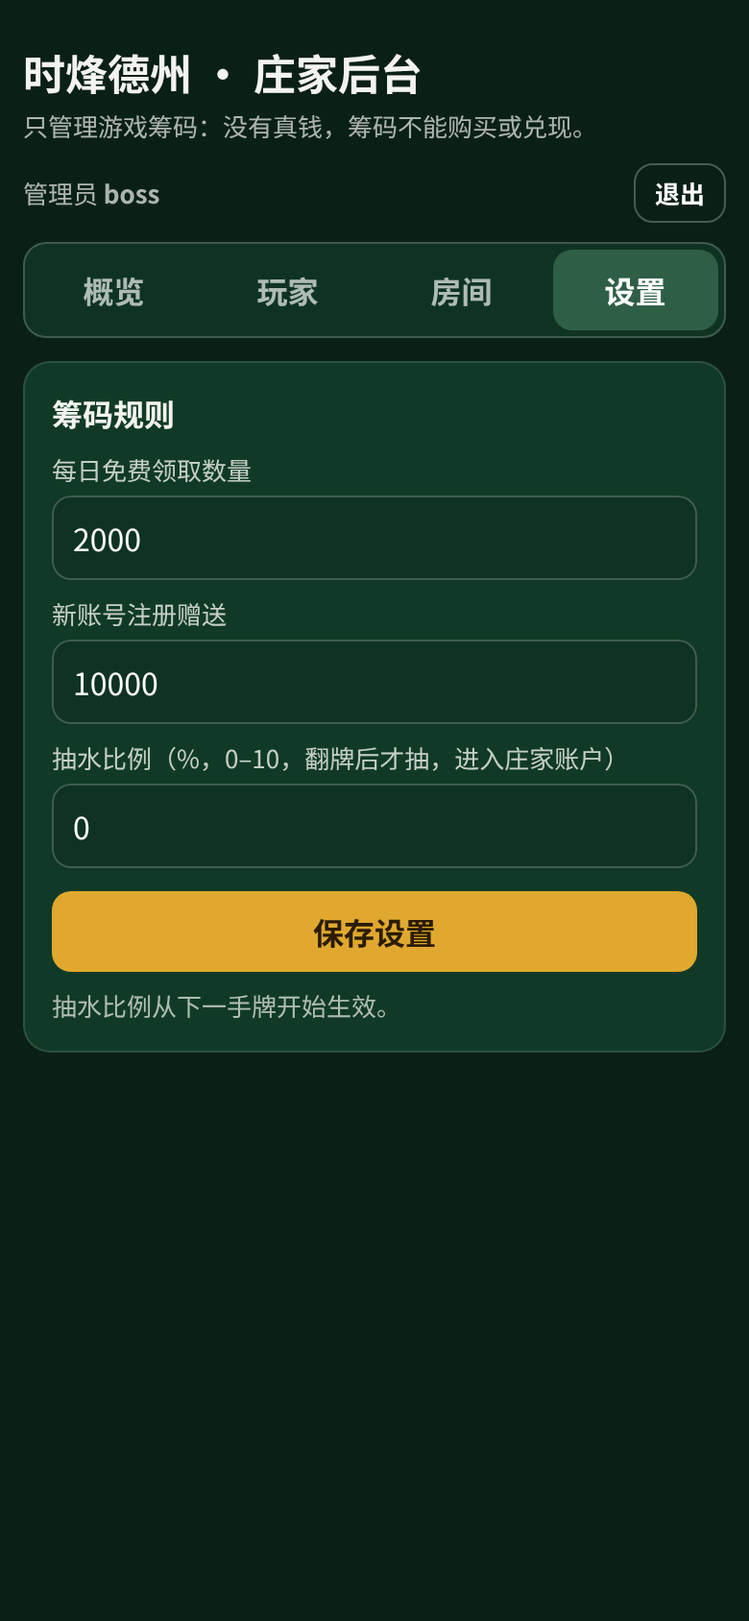
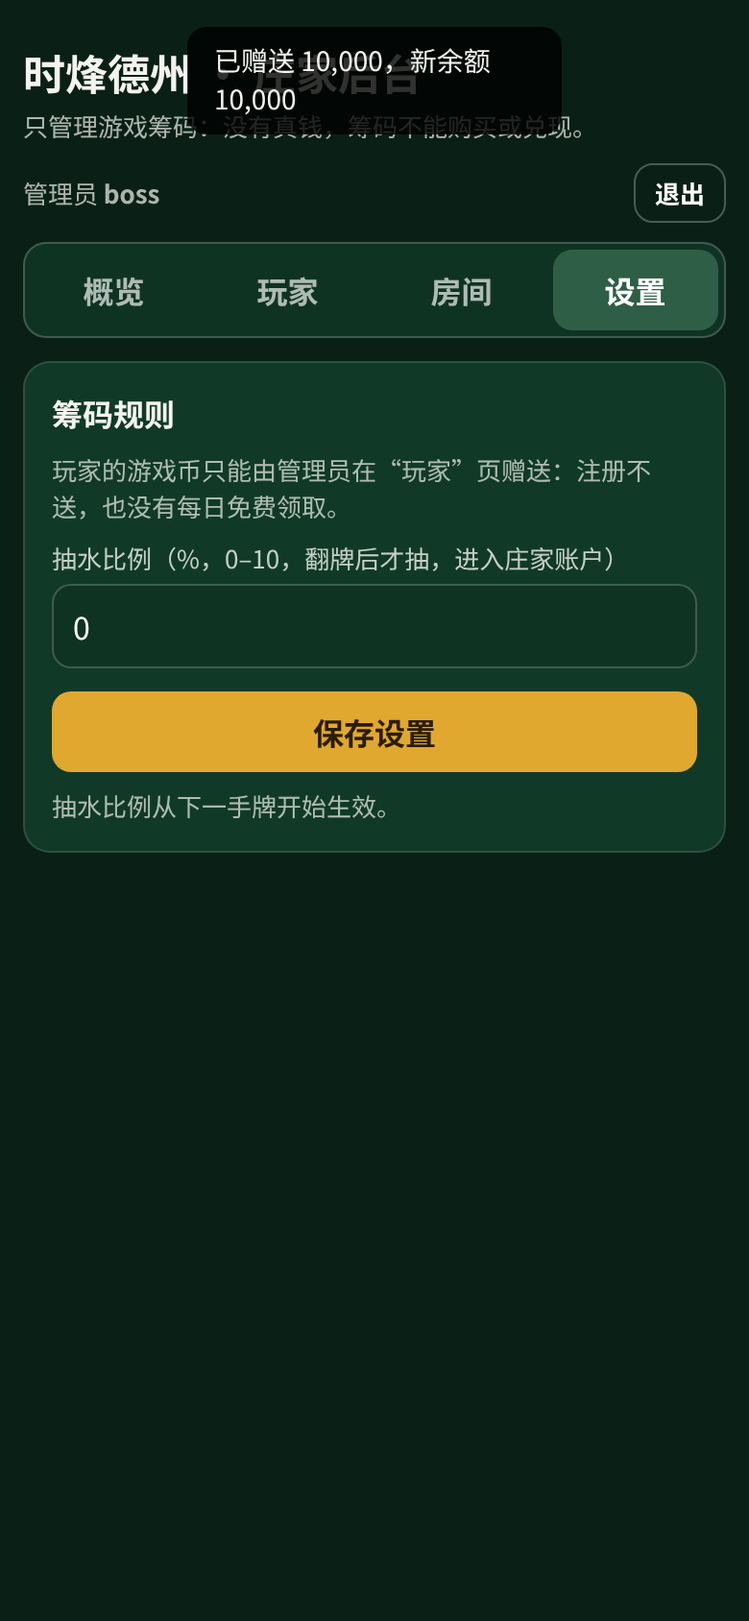
筹码只能由管理员赠送：注册 0 筹码、移除每日领取、余额不足提示联系客服、后台快捷赠送

diff --git a/server.js b/server.js
@@ -14,7 +14,10 @@ const __dirname = path.dirname(fileURLToPath(import.meta.url));
 const MAX_SEATS = 9;
 const HOUSE = "__house__";
 const BOT_NAMES = ["电脑·阿杰", "电脑·小美", "电脑·老王", "电脑·Lisa", "电脑·大卫", "电脑·阿芳", "电脑·Tom", "电脑·小林", "电脑·阿强"];
-const DEFAULT_SETTINGS = { dailyFree: 2000, rakePercent: 0, signupBonus: 10000 };
+// 玩家的筹码只能由庄家（管理员）在后台赠送：注册不送、没有每日免费领取
+const DEFAULT_SETTINGS = { rakePercent: 0 };
+const SIGNUP_BONUS = 0;
+const NO_CHIPS_MSG = "余额不足，请联系客服获取游戏币";
 const SESSION_DAYS = 30;
 
 export async function createApp(opts = {}) {
@@ -25,10 +28,13 @@ export async function createApp(opts = {}) {
   const autoActDelay = opts.autoActDelay ?? 1500;
   const bcryptRounds = opts.bcryptRounds ?? 10;
   const turnMs = (room) => opts.turnMs ?? room.cfg.timer * 1000;
-  const claimTz = opts.claimTz ?? process.env.CLAIM_TZ ?? "Asia/Shanghai";
+  const supportUrl = opts.supportUrl ?? process.env.SUPPORT_URL ?? ""; // 客服链接（以后填 Telegram），空则只显示文字
 
   const store = opts.store ?? await openStore({ databaseUrl: opts.databaseUrl, dataFile: opts.dataFile, memory: opts.memory, schema: opts.schema });
-  let settings = { ...DEFAULT_SETTINGS, ...(await store.getSettings()) };
+  // 启动时清理旧版本留下的“注册赠送 / 每日领取”设置，确保它们不再生效
+  const stored = await store.getSettings();
+  for (const k of ["signupBonus", "dailyFree"]) if (k in stored && stored[k] !== 0) await store.setSetting(k, 0);
+  let settings = { ...DEFAULT_SETTINGS, rakePercent: Number(stored.rakePercent) || 0 };
   let house = await store.getUserByName(HOUSE);
   if (!house) house = await store.createUser(HOUSE, "!", 0, { isHouse: true });
   const houseId = house.id;
@@ -57,13 +63,12 @@ export async function createApp(opts = {}) {
   const clampInt = (v, lo, hi, d) => { const n = Math.floor(Number(v)); return Number.isFinite(n) ? Math.min(hi, Math.max(lo, n)) : d; };
   const activeMembers = (room) => room.members.filter((m) => !m.left);
   const betting = (g) => g && ["preflop", "flop", "turn", "river"].includes(g.stage);
-  const today = () => new Intl.DateTimeFormat("en-CA", { timeZone: claimTz, year: "numeric", month: "2-digit", day: "2-digit" }).format(new Date());
   const newCode = () => {
     const A = "ABCDEFGHJKLMNPQRSTUVWXYZ23456789";
     let c; do { c = Array.from({ length: 5 }, () => A[Math.floor(Math.random() * A.length)]).join(""); } while (rooms.has(c));
     return c;
   };
-  const publicUser = (u) => ({ id: u.id, username: u.username, balance: u.balance, isAdmin: u.isAdmin, canClaim: u.lastClaim !== today(), dailyFree: settings.dailyFree });
+  const publicUser = (u) => ({ id: u.id, username: u.username, balance: u.balance, isAdmin: u.isAdmin, supportUrl });
 
   // ---------- 账号 ----------
   async function userFromToken(token) {
@@ -91,7 +96,7 @@ export async function createApp(opts = {}) {
       if (!NAME_RE.test(username) || username.startsWith("__")) return res.status(400).json({ error: "用户名需 2–16 位，只能用中文、字母、数字或下划线" });
       if (password.length < 6 || password.length > 72) return res.status(400).json({ error: "密码至少 6 位" });
       let u;
-      try { u = await store.createUser(username, await bcrypt.hash(password, bcryptRounds), settings.signupBonus); }
+      try { u = await store.createUser(username, await bcrypt.hash(password, bcryptRounds), SIGNUP_BONUS); }
       catch (e) { if (e.message === "EXISTS") return res.status(409).json({ error: "这个用户名已被注册" }); throw e; }
       res.json({ token: await newSession(u), user: publicUser(u) });
     } catch (e) { next(e); }
@@ -115,14 +120,6 @@ export async function createApp(opts = {}) {
 
   app.post("/api/logout", async (req, res, next) => { try { const t = bearer(req); if (t) await store.deleteSession(t); res.json({ ok: true }); } catch (e) { next(e); } });
   app.get("/api/me", auth, (req, res) => res.json(publicUser(req.user)));
-  app.post("/api/claim", auth, async (req, res, next) => {
-    try {
-      const bal = await store.claimDaily(req.user.id, today(), settings.dailyFree);
-      if (bal == null) return res.status(409).json({ error: "今天已经领过了，明天再来" });
-      pushMe(req.user.id);
-      res.json({ ok: true, amount: settings.dailyFree, balance: bal });
-    } catch (e) { next(e); }
-  });
   app.get("/api/me/ledger", auth, async (req, res, next) => { try { res.json(await store.ledger(req.user.id, 30)); } catch (e) { next(e); } });
   app.get("/health", (_req, res) => res.json({ ok: true, rooms: rooms.size, storage: store.kind }));
   app.get("/api/rooms", (_req, res) => res.json(listRooms()));
@@ -356,9 +353,9 @@ export async function createApp(opts = {}) {
       try {
         const u = await fresh(); if (!u) return ack({ ok: false, error: "账号不可用" });
         const cfg = parseCfg(data.cfg);
-        if (u.balance < cfg.start) return ack({ ok: false, error: `余额不足：带入需要 ${cfg.start}，你有 ${u.balance}` });
+        if (u.balance < cfg.start) return ack({ ok: false, error: `${NO_CHIPS_MSG}（带入需要 ${cfg.start}，你有 ${u.balance}）`, noChips: true });
         const code = newCode();
-        try { await store.adjust(uid, -cfg.start, `带入 房间${code}`); } catch { return ack({ ok: false, error: "余额不足" }); }
+        try { await store.adjust(uid, -cfg.start, `带入 房间${code}`); } catch { return ack({ ok: false, error: NO_CHIPS_MSG, noChips: true }); }
         pushMe(uid);
         const room = { code, cfg, members: [], g: null, hostToken: null, lastActive: Date.now(), created: Date.now(), emptySince: null };
         rooms.set(code, room);
@@ -382,8 +379,8 @@ export async function createApp(opts = {}) {
         if (activeMembers(room).length >= MAX_SEATS) return ack({ ok: false, error: "房间已满（最多 9 人）" });
         if (room.g && room.g.players.length >= MAX_SEATS && betting(room.g)) return ack({ ok: false, error: "暂时没有空位，请等这手牌结束再试" });
         const u = await fresh(); if (!u) return ack({ ok: false, error: "账号不可用" });
-        if (u.balance < room.cfg.start) return ack({ ok: false, error: `余额不足：带入需要 ${room.cfg.start}，你有 ${u.balance}` });
-        try { await store.adjust(uid, -room.cfg.start, `带入 房间${code}`); } catch { return ack({ ok: false, error: "余额不足" }); }
+        if (u.balance < room.cfg.start) return ack({ ok: false, error: `${NO_CHIPS_MSG}（带入需要 ${room.cfg.start}，你有 ${u.balance}）`, noChips: true });
+        try { await store.adjust(uid, -room.cfg.start, `带入 房间${code}`); } catch { return ack({ ok: false, error: NO_CHIPS_MSG, noChips: true }); }
         pushMe(uid);
         room = rooms.get(code);
         const refund = (msg) => { track(store.adjust(uid, room ? room.cfg.start : 0, `带入失败退回 房间${code}`).then(() => pushMe(uid))); ack({ ok: false, error: msg }); };
@@ -446,7 +443,7 @@ export async function createApp(opts = {}) {
       if (p.chips > 0 || (betting(room.g) && !p.out) || m.cashedOut || m.pendingCashout) return ack({ ok: false, error: "现在不能补充筹码" });
       if (m.rebuying) return ack({ ok: false }); m.rebuying = true;
       try { await store.adjust(uid, -room.cfg.start, `补充带入 房间${room.code}`); }
-      catch { m.rebuying = false; return ack({ ok: false, error: "余额不足" }); }
+      catch { m.rebuying = false; return ack({ ok: false, error: NO_CHIPS_MSG, noChips: true }); }
       m.rebuying = false;
       if (!rooms.has(room.code) || m.left) { credit(m, room.cfg.start, `补充失败退回 房间${room.code}`); return ack({ ok: false }); }
       p.chips += room.cfg.start; pushMe(uid);
@@ -496,11 +493,11 @@ export async function createApp(opts = {}) {
   });
   aget("/users/:id/ledger", async (req, res) => res.json(await store.ledger(Number(req.params.id), 100)));
   apost("/users/:id/adjust", async (req, res) => {
-    const id = Number(req.params.id); const delta = Math.trunc(Number(req.body?.delta)); const reason = String(req.body?.reason || "").trim().slice(0, 100);
+    const id = Number(req.params.id); const delta = Math.trunc(Number(req.body?.delta));
     if (!delta || Math.abs(delta) > 1e9) return res.status(400).json({ error: "请输入有效的数量" });
-    if (!reason) return res.status(400).json({ error: "请填写原因" });
+    const reason = String(req.body?.reason || "").trim().slice(0, 100) || (delta > 0 ? "管理员赠送" : "管理员扣除");
     const u = await store.getUser(id); if (!u || u.isHouse) return res.status(404).json({ error: "找不到玩家" });
-    try { const bal = await store.adjust(id, delta, `后台${delta > 0 ? "增加" : "扣除"}：${reason}`, req.user.username); pushMe(id); res.json({ ok: true, balance: bal }); }
+    try { const bal = await store.adjust(id, delta, reason, req.user.username); pushMe(id); res.json({ ok: true, balance: bal }); }
     catch (e) { if (e.message === "INSUFFICIENT") return res.status(400).json({ error: "余额不够扣" }); throw e; }
   });
   apost("/users/:id/ban", async (req, res) => {
@@ -532,10 +529,8 @@ export async function createApp(opts = {}) {
   });
   apost("/settings", async (req, res) => {
     const b = req.body || {};
-    if (b.dailyFree !== undefined) settings.dailyFree = clampInt(b.dailyFree, 0, 1e9, settings.dailyFree);
-    if (b.signupBonus !== undefined) settings.signupBonus = clampInt(b.signupBonus, 0, 1e9, settings.signupBonus);
     if (b.rakePercent !== undefined) { const v = Number(b.rakePercent); if (!(v >= 0 && v <= 10)) return res.status(400).json({ error: "抽水比例需在 0–10% 之间" }); settings.rakePercent = Math.round(v * 10) / 10; }
-    for (const k of ["dailyFree", "signupBonus", "rakePercent"]) await store.setSetting(k, settings[k]);
+    await store.setSetting("rakePercent", settings.rakePercent);
     res.json({ ok: true, settings });
   });
   app.use("/api/admin", A);

diff --git a/public/admin.html b/public/admin.html
@@ -39,6 +39,7 @@ h1{font-size:22px;margin:10px 0 2px}h2{font-size:16px;margin:0 0 8px}
 .ledger{font-size:12px;line-height:1.6;background:#0d2a1c;border-radius:8px;padding:8px;margin-top:8px;max-height:220px;overflow:auto}
 .warn{background:#5a3c0b;border-radius:10px;padding:8px 10px;font-size:13px;margin-top:8px}
 #toast{position:fixed;left:50%;top:14px;transform:translateX(-50%);background:#000c;padding:8px 14px;border-radius:10px;z-index:99;font-size:14px}
+.presets button{flex:1 1 auto}
 .mem{display:flex;justify-content:space-between;align-items:center;font-size:13px;padding:4px 0}
 </style>
 </head>
@@ -77,8 +78,7 @@ h1{font-size:22px;margin:10px 0 2px}h2{font-size:16px;margin:0 0 8px}
     <div id="t-set" class="hidden">
       <div class="box">
         <h2>筹码规则</h2>
-        <label>每日免费领取数量</label><input id="sDaily" type="number" inputmode="numeric">
-        <label>新账号注册赠送</label><input id="sSignup" type="number" inputmode="numeric">
+        <div class="muted">玩家的游戏币只能由管理员在“玩家”页赠送：注册不送，也没有每日免费领取。</div>
         <label>抽水比例（%，0–10，翻牌后才抽，进入庄家账户）</label><input id="sRake" type="number" inputmode="decimal" step="0.5">
         <button class="pri" id="btnSave" style="width:100%;margin-top:12px">保存设置</button>
         <div class="muted" style="margin-top:8px">抽水比例从下一手牌开始生效。</div>
@@ -131,7 +131,7 @@ async function loadStats() {
   $("stats").innerHTML = items.map(([l, v]) => `<div class="stat"><div class="v">${v}</div><div class="l">${l}</div></div>`).join("");
   const houseNote = `<div class="muted" style="margin-top:8px">庄家余额 = 抽水收入 − 电脑玩家带入的筹码（电脑玩家离桌时返还），为负数是正常的。</div>`;
   $("storeWarn").innerHTML = houseNote + (s.storage === "postgres" ? `<div class="muted" style="margin-top:8px">数据存储：Postgres 数据库</div>` : `<div class="warn">⚠ 当前没有连接数据库（存储：${esc(s.storage)}），服务器重启或重新部署后账号和余额会丢失。请在 Render 设置 DATABASE_URL。</div>`);
-  $("sDaily").value = s.settings.dailyFree; $("sSignup").value = s.settings.signupBonus; $("sRake").value = s.settings.rakePercent;
+  $("sRake").value = s.settings.rakePercent;
 }
 
 let usersCache = [];
@@ -143,23 +143,41 @@ async function loadUsers() {
       <div class="money">${fmt(u.balance)}</div>
     </div>
     <div class="muted">ID ${u.id} · 注册 ${t2(u.createdAt)} · 最近登录 ${t2(u.lastLogin)}</div>
-    <div class="row" style="margin-top:6px"><button class="sm" onclick="openAdjust(${u.id})">加/减筹码</button><button class="sm ghost" onclick="openLedger(${u.id})">流水</button>${u.isAdmin ? "" : `<button class="sm ${u.banned ? "" : "red"}" onclick="ban(${u.id}, ${!u.banned})">${u.banned ? "解封" : "封禁"}</button>`}</div>
+    <div class="row" style="margin-top:6px"><button class="pri sm" onclick="openGift(${u.id})">🎁 赠送</button><button class="sm" onclick="openAdjust(${u.id})">扣除</button><button class="sm ghost" onclick="openLedger(${u.id})">流水</button>${u.isAdmin ? "" : `<button class="sm ${u.banned ? "" : "red"}" onclick="ban(${u.id}, ${!u.banned})">${u.banned ? "解封" : "封禁"}</button>`}</div>
     <div class="extra"></div></div>`).join("") : `<div class="muted" style="padding:8px 0">没有找到玩家</div>`;
 }
 $("btnQ").onclick = loadUsers; $("q").onkeydown = (e) => { if (e.key === "Enter") loadUsers(); };
 function extra(id) { return document.querySelector(`#u${id} .extra`); }
+const PRESETS = [1000, 5000, 10000, 50000, 100000];
+function openGift(id) {
+  extra(id).innerHTML = `<div class="box gift" style="margin:8px 0 0;padding:10px">
+    <div class="row presets">${PRESETS.map((n) => `<button class="sm ghost" onclick="setGift(${id}, ${n})">${n >= 10000 ? n / 10000 + " 万" : fmt(n)}</button>`).join("")}</div>
+    <label>赠送数量</label><input id="ga${id}" type="number" inputmode="numeric" placeholder="输入数量或点上面的快捷金额" oninput="giftLabel(${id})">
+    <label>备注（可不填，默认“管理员赠送”）</label><input id="gr${id}" maxlength="100" placeholder="管理员赠送">
+    <div class="row" style="margin-top:8px"><button class="pri" style="flex:1" id="gb${id}" onclick="gift(${id})">确认赠送</button><button class="ghost sm" onclick="extra(${id}).innerHTML=''">取消</button></div></div>`;
+  $("ga" + id).focus();
+}
+function setGift(id, n) { $("ga" + id).value = n; giftLabel(id); }
+function giftLabel(id) { const n = Math.trunc(+$("ga" + id).value); $("gb" + id).textContent = n > 0 ? `确认赠送 ${fmt(n)}` : "确认赠送"; }
+async function gift(id) {
+  const delta = Math.trunc(+$("ga" + id).value); const reason = $("gr" + id).value.trim();
+  if (!(delta > 0)) return toast("请输入赠送数量");
+  const btn = $("gb" + id); btn.disabled = true;
+  try { const d = await call("POST", `/api/admin/users/${id}/adjust`, { delta, reason }); toast(`已赠送 ${fmt(delta)}，新余额 ${fmt(d.balance)}`); loadUsers(); }
+  catch (e) { toast(e.message); btn.disabled = false; }
+}
 function openAdjust(id) {
   extra(id).innerHTML = `<div class="box" style="margin:8px 0 0;padding:10px">
-    <label>数量（正数增加，负数扣除）</label><input id="ad${id}" type="number" inputmode="numeric" placeholder="例如 5000 或 -2000">
-    <label>原因（必填，会记入流水）</label><input id="ar${id}" maxlength="100" placeholder="例如：活动奖励">
-    <div class="row" style="margin-top:8px"><button class="pri sm" onclick="adjust(${id})">确认</button><button class="ghost sm" onclick="extra(${id}).innerHTML=''">取消</button></div></div>`;
+    <label>扣除数量</label><input id="ad${id}" type="number" inputmode="numeric" placeholder="例如 2000">
+    <label>原因（可不填，默认“管理员扣除”）</label><input id="ar${id}" maxlength="100" placeholder="管理员扣除">
+    <div class="row" style="margin-top:8px"><button class="red sm" onclick="adjust(${id})">确认扣除</button><button class="ghost sm" onclick="extra(${id}).innerHTML=''">取消</button></div></div>`;
 }
 async function adjust(id) {
-  const delta = Math.trunc(+$("ad" + id).value), reason = $("ar" + id).value.trim();
-  if (!delta) return toast("请输入数量"); if (!reason) return toast("请填写原因");
+  const n = Math.abs(Math.trunc(+$("ad" + id).value)), reason = $("ar" + id).value.trim();
+  if (!n) return toast("请输入数量");
   const u = usersCache.find((x) => x.id === id);
-  if (!confirm(`${delta > 0 ? "给" : "从"} ${u.username} ${delta > 0 ? "增加" : "扣除"} ${fmt(Math.abs(delta))} 筹码？\n原因：${reason}`)) return;
-  try { const d = await call("POST", `/api/admin/users/${id}/adjust`, { delta, reason }); toast(`完成，新余额 ${fmt(d.balance)}`); loadUsers(); } catch (e) { toast(e.message); }
+  if (!confirm(`从 ${u.username} 扣除 ${fmt(n)} 筹码？`)) return;
+  try { const d = await call("POST", `/api/admin/users/${id}/adjust`, { delta: -n, reason }); toast(`完成，新余额 ${fmt(d.balance)}`); loadUsers(); } catch (e) { toast(e.message); }
 }
 async function openLedger(id) {
   const rows = await call("GET", `/api/admin/users/${id}/ledger`);
@@ -185,8 +203,8 @@ async function kick(code, userId, name) { if (!confirm(`把 ${name} 移出房间
 
 $("btnSave").onclick = async () => {
   try {
-    const d = await call("POST", "/api/admin/settings", { dailyFree: +$("sDaily").value, signupBonus: +$("sSignup").value, rakePercent: +$("sRake").value });
-    toast(`已保存：每日 ${d.settings.dailyFree}，注册送 ${d.settings.signupBonus}，抽水 ${d.settings.rakePercent}%`);
+    const d = await call("POST", "/api/admin/settings", { rakePercent: +$("sRake").value });
+    toast(`已保存：抽水 ${d.settings.rakePercent}%`);
   } catch (e) { toast(e.message); }
 };
 

diff --git a/public/index.html b/public/index.html
@@ -27,6 +27,7 @@ h1{font-size:24px;margin:14px 0 4px}h2{font-size:17px;margin:0 0 8px}
 .row>*{flex:1 1 auto}
 .grid4{display:grid;grid-template-columns:repeat(4,1fr);gap:6px}
 .hidden{display:none!important}
+.nochips{margin-top:10px;background:#5a3c0b;border-radius:10px;padding:10px 12px;font-size:14px;line-height:1.5}
 .bal{font-size:22px;font-weight:800;color:#ffe9a8}.bal b{font-weight:800}
 .code{font-size:34px;letter-spacing:6px;font-weight:800;color:#e0a82e}
 .member{display:flex;justify-content:space-between;align-items:center;padding:8px 0;border-bottom:1px solid #ffffff14}
@@ -111,7 +112,7 @@ h1{font-size:24px;margin:14px 0 4px}h2{font-size:17px;margin:0 0 8px}
     <input id="aPass" type="password" maxlength="72" autocomplete="current-password" placeholder="至少 6 位">
     <div id="aPass2Box" class="hidden"><label>确认密码</label><input id="aPass2" type="password" maxlength="72" autocomplete="new-password" placeholder="再输入一次"></div>
     <button class="pri" id="btnAuth" style="width:100%;margin-top:14px">登录</button>
-    <div class="muted" id="authHint" style="margin-top:10px">还没有账号？点上面的“注册”，新账号赠送游戏筹码，每天还能免费领取。</div>
+    <div class="muted" id="authHint" style="margin-top:10px">还没有账号？点上面的“注册”。游戏币由客服发放，注册后联系客服即可。</div>
   </div>
 </div>
 
@@ -124,7 +125,12 @@ h1{font-size:24px;margin:14px 0 4px}h2{font-size:17px;margin:0 0 8px}
       <div style="flex:1;min-width:0"><div class="muted">👤 <span id="uName"></span></div><div class="bal">余额 <b id="uBal">0</b></div></div>
       <button class="ghost" id="btnLogout" style="flex:none;padding:6px 10px;font-size:13px">退出</button>
     </div>
-    <button class="pri" id="btnClaim" style="width:100%;margin-top:10px">领取每日免费筹码</button>
+    <div id="noChips" class="nochips hidden">
+      <div>💬 余额不足，请联系客服获取游戏币</div>
+      <!-- 客服链接（以后填 Telegram）：服务器环境变量 SUPPORT_URL，或改下面脚本里的 SUPPORT_URL_FALLBACK -->
+      <button class="blue" id="btnSupport" style="width:100%;margin-top:8px">联系客服</button>
+      <div class="muted hidden" id="supportSoon" style="margin-top:6px">客服联系方式即将公布，请稍后再来看看</div>
+    </div>
   </div>
   <div class="card-box" id="roomsBox">
     <div class="row" style="justify-content:space-between;flex-wrap:nowrap"><h2 style="flex:none;margin:0">公开房间</h2><button class="ghost" id="btnRefresh" style="flex:none;padding:5px 12px;font-size:13px">刷新</button></div>
@@ -219,7 +225,7 @@ $("authTabs").querySelectorAll("button").forEach((b) => b.onclick = () => {
   $("authTabs").querySelectorAll("button").forEach((x) => x.classList.toggle("on", x === b));
   $("aPass2Box").classList.toggle("hidden", authMode !== "register");
   $("btnAuth").textContent = authMode === "login" ? "登录" : "注册并登录";
-  $("authHint").textContent = authMode === "login" ? "还没有账号？点上面的“注册”，新账号赠送游戏筹码，每天还能免费领取。" : "用户名注册后不能修改，会显示在牌桌上。请牢记密码。";
+  $("authHint").textContent = authMode === "login" ? "还没有账号？点上面的“注册”。游戏币由客服发放，注册后联系客服即可。" : "用户名注册后不能修改，会显示在牌桌上。请牢记密码。";
   $("aPass").autocomplete = authMode === "login" ? "current-password" : "new-password";
 });
 async function post(url, body) {
@@ -237,21 +243,24 @@ async function doAuth() {
   if (!r.ok) return toast(r.d.error || "出错了，请重试");
   authToken = r.d.token; localStorage.setItem("sf_token", authToken);
   $("aPass").value = $("aPass2").value = "";
-  if (authMode === "register") toast(`注册成功，送你 ${r.d.user.balance} 筹码`);
+  if (authMode === "register") toast("注册成功");
   setMe(r.d.user); socket.connect();
 }
 $("btnAuth").onclick = doAuth;
 $("aPass").onkeydown = $("aPass2").onkeydown = (e) => { if (e.key === "Enter") doAuth(); };
 function setMe(u) {
   me = u; $("uName").textContent = u.username; $("uBal").textContent = u.balance.toLocaleString();
-  const b = $("btnClaim"); b.disabled = !u.canClaim;
-  b.textContent = u.canClaim ? `领取每日免费筹码 +${u.dailyFree}` : "今天已领取，明天再来";
+  // 余额为 0：提示联系客服（游戏币只能由庄家赠送）
+  $("noChips").classList.toggle("hidden", u.balance > 0);
+  const link = supportLink();
+  $("btnSupport").classList.toggle("hidden", !link); $("supportSoon").classList.toggle("hidden", !!link);
 }
-$("btnClaim").onclick = async () => {
-  const r = await post("/api/claim");
-  if (!r.ok) return toast(r.d.error || "领取失败");
-  toast(`已领取 ${r.d.amount} 筹码`); setMe({ ...me, balance: r.d.balance, canClaim: false });
-};
+// 客服入口占位：以后在服务器设置 SUPPORT_URL（例如 https://t.me/xxx），或直接改这里
+const SUPPORT_URL_FALLBACK = "";
+function supportLink() { return (me && me.supportUrl) || SUPPORT_URL_FALLBACK; }
+function contactSupport() { const l = supportLink(); if (l) window.open(l, "_blank", "noopener"); else toast("客服联系方式即将公布"); }
+$("btnSupport").onclick = contactSupport;
+function noChips(need) { toast(`余额不足，请联系客服获取游戏币（带入需要 ${need}，你有 ${me ? me.balance : 0}）`); }
 function logout() {
   post("/api/logout"); authToken = ""; localStorage.removeItem("sf_token"); clearRoom(); me = null;
   socket.disconnect(); show("auth");
@@ -288,7 +297,7 @@ function renderRooms(list) {
   el.querySelectorAll(".rm").forEach((row) => row.onclick = () => {
     const r = roomsCache.find((x) => x.code === row.dataset.code);
     if (!r) return; if (r.full) return toast("房间已满");
-    if (me && me.balance < r.start) return toast(`余额不足：这个房间带入 ${r.start}`);
+    if (me && me.balance < r.start) return noChips(r.start);
     if (!confirm(`从余额带入 ${r.start} 筹码，加入房间 ${r.code}？`)) return;
     join(r.code, false);
   });
@@ -298,7 +307,7 @@ $("btnRefresh").onclick = () => socket.emit("listRooms", (l) => { renderRooms(l)
 
 $("btnCreate").onclick = () => {
   const start = +$("cStart").value || 0;
-  if (me && start > me.balance) return toast(`余额不足：带入 ${start}，你只有 ${me.balance}`);
+  if (me && start > me.balance) return noChips(start);
   socket.emit("create", { cfg: { start: $("cStart").value, sb: $("cSb").value, bb: $("cBb").value, timer: $("cTimer").value, public: createPublic } }, (r) => { if (r.ok) setRoom(r.code); else toast(r.error); });
 };
 function join(c, auto) {
@@ -433,7 +442,7 @@ function renderActions() {
   box.innerHTML = h;
 }
 function rebuy() {
-  if (me && me.balance < S.cfg.start) return toast(`余额不足：需要 ${S.cfg.start}`);
+  if (me && me.balance < S.cfg.start) return noChips(S.cfg.start);
   socket.emit("rebuy", (r) => { if (r && r.ok) toast("已补充筹码"); else toast((r && r.error) || "现在不能补充"); });
 }
 function setR(v) { const L = S.game.legal; raiseTo = Math.min(L.raiseMax, Math.max(L.raiseMin, v)); renderActions(); }

diff --git a/test/auth.test.js b/test/auth.test.js
@@ -7,7 +7,7 @@ test("注册、登录、会话、校验", async () => {
   const ctx = await boot();
   try {
     const r = await register(ctx, "Laura", "pass1234");
-    assert.equal(r.user.username, "Laura"); assert.equal(r.user.balance, 10000); assert.equal(r.user.isAdmin, false);
+    assert.equal(r.user.username, "Laura"); assert.equal(r.user.balance, 0, "注册不送筹码"); assert.equal(r.user.isAdmin, false);
     // 密码用 bcrypt 存储，不是明文
     const u = await ctx.store.getUserByName("laura");
     assert.notEqual(u.passHash, "pass1234"); assert.ok(u.passHash.startsWith("$2")); assert.ok(await bcrypt.compare("pass1234", u.passHash));
@@ -31,17 +31,40 @@ test("注册、登录、会话、校验", async () => {
   } finally { await ctx.close(); }
 });
 
-test("每日免费领取：一天一次，金额由后台设置", async () => {
-  const ctx = await boot();
+test("没有每日领取；旧版本存下的注册赠送/每日领取设置启动时被清零", async () => {
+  const { openStore } = await import("../db.js");
+  const store = await openStore({ memory: true });
+  await store.setSetting("signupBonus", 10000); await store.setSetting("dailyFree", 2000); await store.setSetting("rakePercent", 1.5);
+  const ctx = await boot({ store });
   try {
-    const { token } = await register(ctx, "每天来");
-    const c1 = await api(ctx, "POST", "/api/claim", null, token);
-    assert.equal(c1.status, 200); assert.equal(c1.data.amount, 2000); assert.equal(c1.data.balance, 12000);
-    assert.equal((await api(ctx, "POST", "/api/claim", null, token)).status, 409);
-    const me = await api(ctx, "GET", "/api/me", null, token);
-    assert.equal(me.data.canClaim, false);
+    const { token, user } = await register(ctx, "新玩家");
+    assert.equal(user.balance, 0);
+    assert.equal((await api(ctx, "GET", "/api/me", null, token)).data.balance, 0);
+    assert.equal((await api(ctx, "POST", "/api/claim", null, token)).status, 404, "领取接口已移除");
+    const me = (await api(ctx, "GET", "/api/me", null, token)).data;
+    assert.equal(me.canClaim, undefined); assert.equal(me.dailyFree, undefined);
+    const st = await store.getSettings();
+    assert.equal(st.signupBonus, 0); assert.equal(st.dailyFree, 0); assert.equal(st.rakePercent, 1.5, "抽水设置保留");
     const ledger = await api(ctx, "GET", "/api/me/ledger", null, token);
-    assert.deepEqual(ledger.data.map((x) => x.reason), ["每日免费领取", "注册赠送"]);
+    assert.deepEqual(ledger.data, [], "注册没有任何入账");
+  } finally { await ctx.close(); }
+});
+
+test("余额为 0 不能建房或加入房间，提示联系客服", async () => {
+  const ctx = await boot({ supportUrl: "https://t.me/example_support" });
+  try {
+    const { player, ack } = await import("../testlib/helpers.js");
+    const rich = await player(ctx, "有钱人");
+    const r = await ack(rich, "create", {});
+    const poor = await player(ctx, "没钱人", 0);
+    assert.equal(poor.user.balance, 0);
+    const me = (await api(ctx, "GET", "/api/me", null, poor.token)).data;
+    assert.equal(me.supportUrl, "https://t.me/example_support", "客服链接通过 /api/me 下发");
+    const c = await ack(poor, "create", {});
+    assert.equal(c.ok, false); assert.match(c.error, /余额不足，请联系客服获取游戏币/); assert.equal(c.noChips, true);
+    const j = await ack(poor, "join", { code: r.code });
+    assert.equal(j.ok, false); assert.match(j.error, /请联系客服获取游戏币/);
+    assert.equal((await ctx.store.getUser(poor.user.id)).balance, 0);
   } finally { await ctx.close(); }
 });
 

diff --git a/testlib/helpers.js b/testlib/helpers.js
@@ -39,7 +39,12 @@ export function client(ctx, token) {
   return s;
 }
 export const ack = (s, ev, data) => new Promise((r) => (data === undefined ? s.emit(ev, r) : s.emit(ev, data, r)));
-export async function player(ctx, name) { const r = await register(ctx, name); const s = client(ctx, r.token); s.token = r.token; s.user = r.user; return s; }
+// 注册一个玩家；注册本身是 0 筹码，这里模拟管理员赠送 chips 个游戏币（默认 10000）
+export async function player(ctx, name, chips = 10000) {
+  const r = await register(ctx, name);
+  if (chips) { r.user.balance = await ctx.store.adjust(r.user.id, chips, "管理员赠送", "test"); }
+  const s = client(ctx, r.token); s.token = r.token; s.user = r.user; return s;
+}
 
 // 整个经济体的筹码总量 = 所有账户余额（含庄家）+ 牌桌上的筹码
 export async function economy(ctx) {

diff --git a/test/economy.test.js b/test/economy.test.js
@@ -47,7 +47,7 @@ test("余额不足不能带入；输光后可以从余额补充筹码", async ()
   try {
     const a = await player(ctx, "穷玩家");
     const big = await ack(a, "create", { cfg: { start: 20000 } });
-    assert.equal(big.ok, false); assert.match(big.error, /余额不足/);
+    assert.equal(big.ok, false); assert.match(big.error, /余额不足，请联系客服获取游戏币/);
     assert.equal(await balanceOf(ctx, a), 10000);
     const b = await player(ctx, "对手");
     const eco = await economy(ctx);
